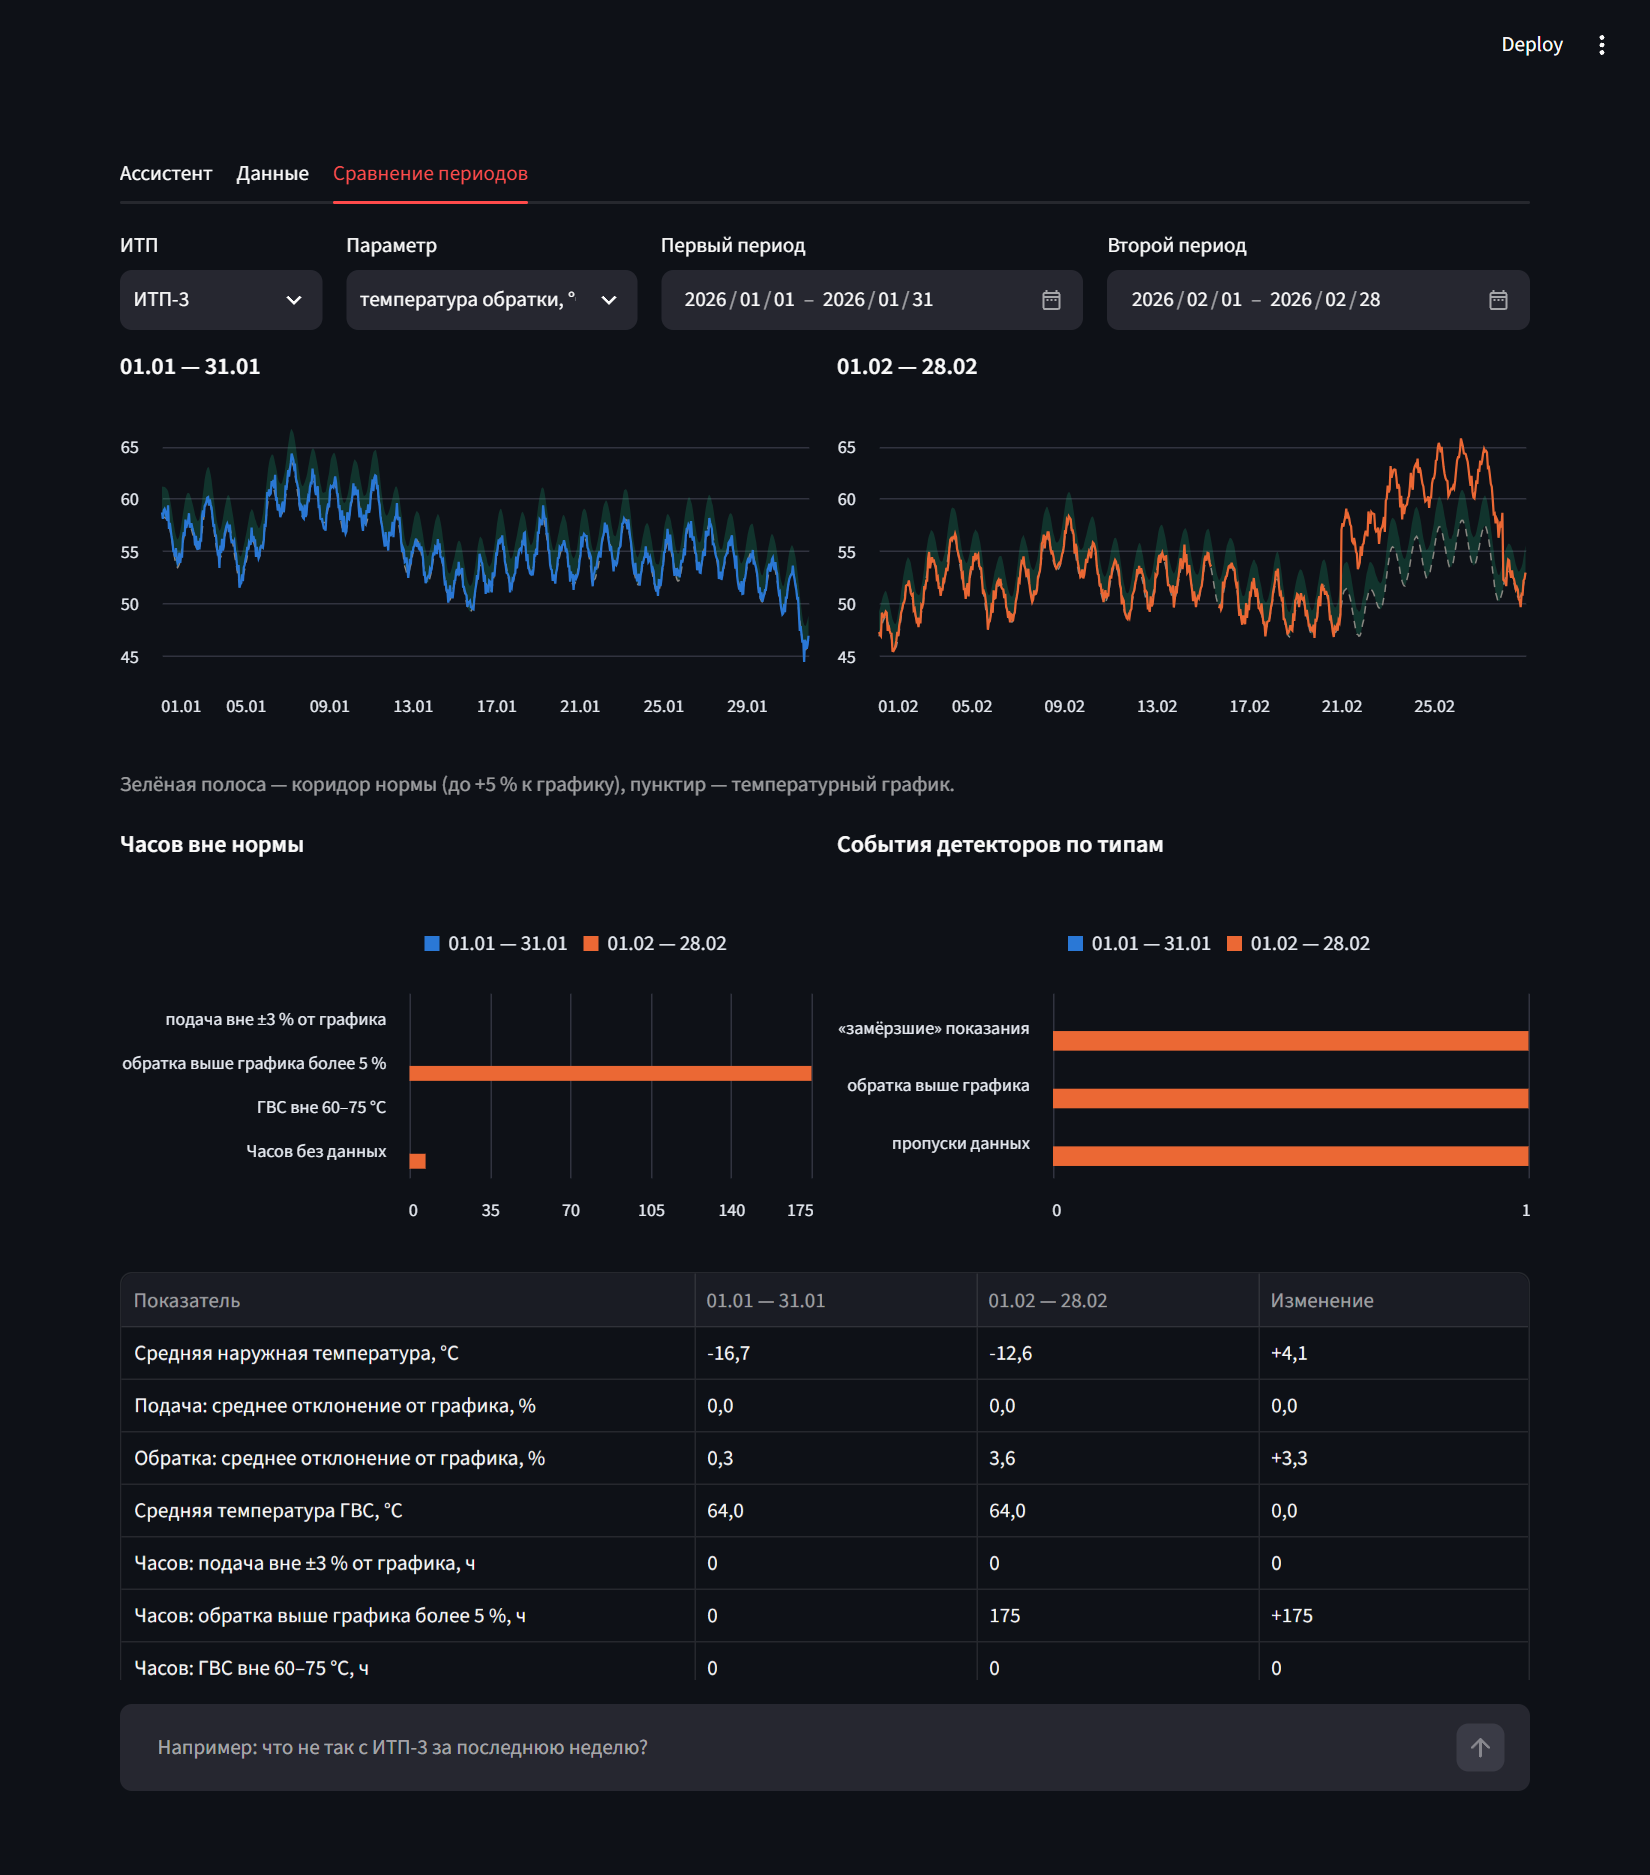
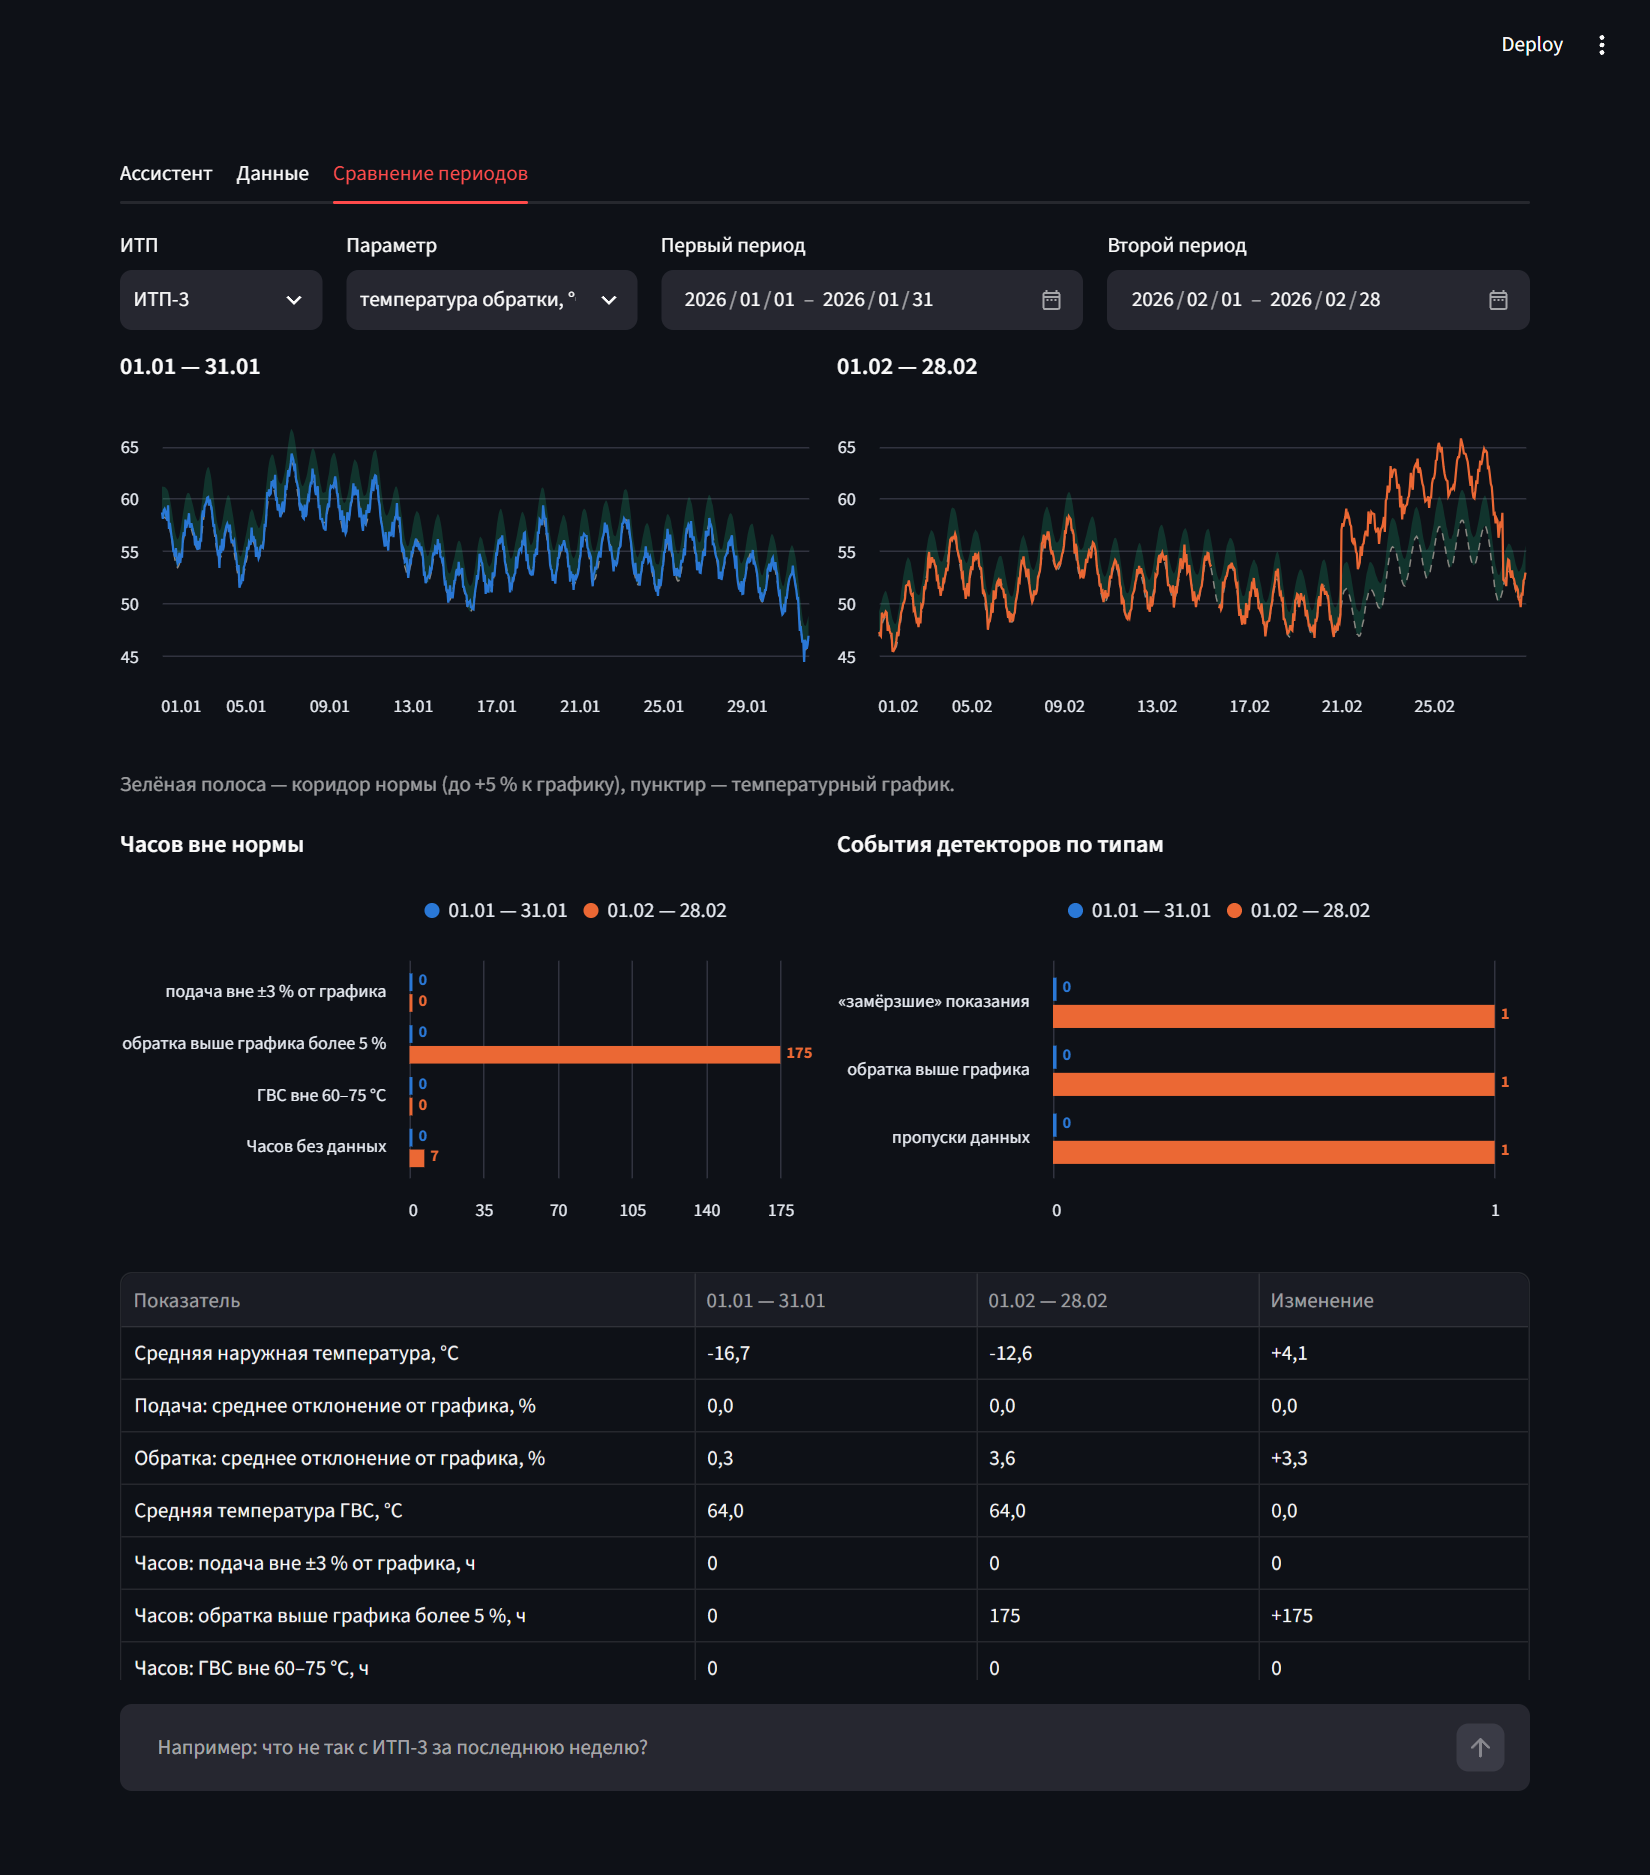
Сравнение периодов: нулевые значения видны — штрих и подпись у каждой полосы
Синие полосы первого периода при нуле не было видно, и «в январе 0» выглядело
как «январь не посчитан».

diff --git a/itp/charts.py b/itp/charts.py
@@ -96,15 +96,23 @@ def compare_bars(rows, height=240):
     top = max(int(data["value"].max()), 1)
     step = max(1, round(top / 5))
     ticks = list(range(0, top + step, step))              # часы и события — целые деления
-    return alt.Chart(data).mark_bar().encode(
+    # Нулевое значение — короткий штрих цвета периода: иначе «в январе 0» неотличимо от «январь не посчитан»
+    data["bar"] = data["value"].where(data["value"] > 0, ticks[-1] * 0.008)
+    data["label"] = data["value"].map(lambda v: f"{v:g}")
+    scale_x = alt.Scale(domain=[0, ticks[-1] * 1.08])      # место для подписи у самой длинной полосы
+    base = alt.Chart(data).encode(
         y=alt.Y("metric:N", title=None, sort=None, axis=alt.Axis(labelLimit=320)),
         yOffset=alt.YOffset("period:N", sort=periods),
-        x=alt.X("value:Q", title=None, scale=alt.Scale(domain=[0, ticks[-1]]), axis=alt.Axis(values=ticks, format="d")),
         color=alt.Color("period:N", title=None, sort=periods,
                         scale=alt.Scale(domain=periods, range=PERIOD_COLORS), legend=alt.Legend(orient="top")),
         tooltip=[alt.Tooltip("metric:N", title="показатель"), alt.Tooltip("period:N", title="период"),
                  alt.Tooltip("value:Q", title="значение")],
-    ).properties(height=height)
+    )
+    bars = base.mark_bar().encode(x=alt.X("bar:Q", title=None, scale=scale_x,
+                                          axis=alt.Axis(values=ticks, format="d")))
+    labels = base.mark_text(align="left", dx=4, fontSize=11, fontWeight="bold").encode(
+        x=alt.X("bar:Q", scale=scale_x), text="label:N")
+    return (bars + labels).properties(height=height)
 
 
 def overview_chart(substation, start, end, params, height=320):
